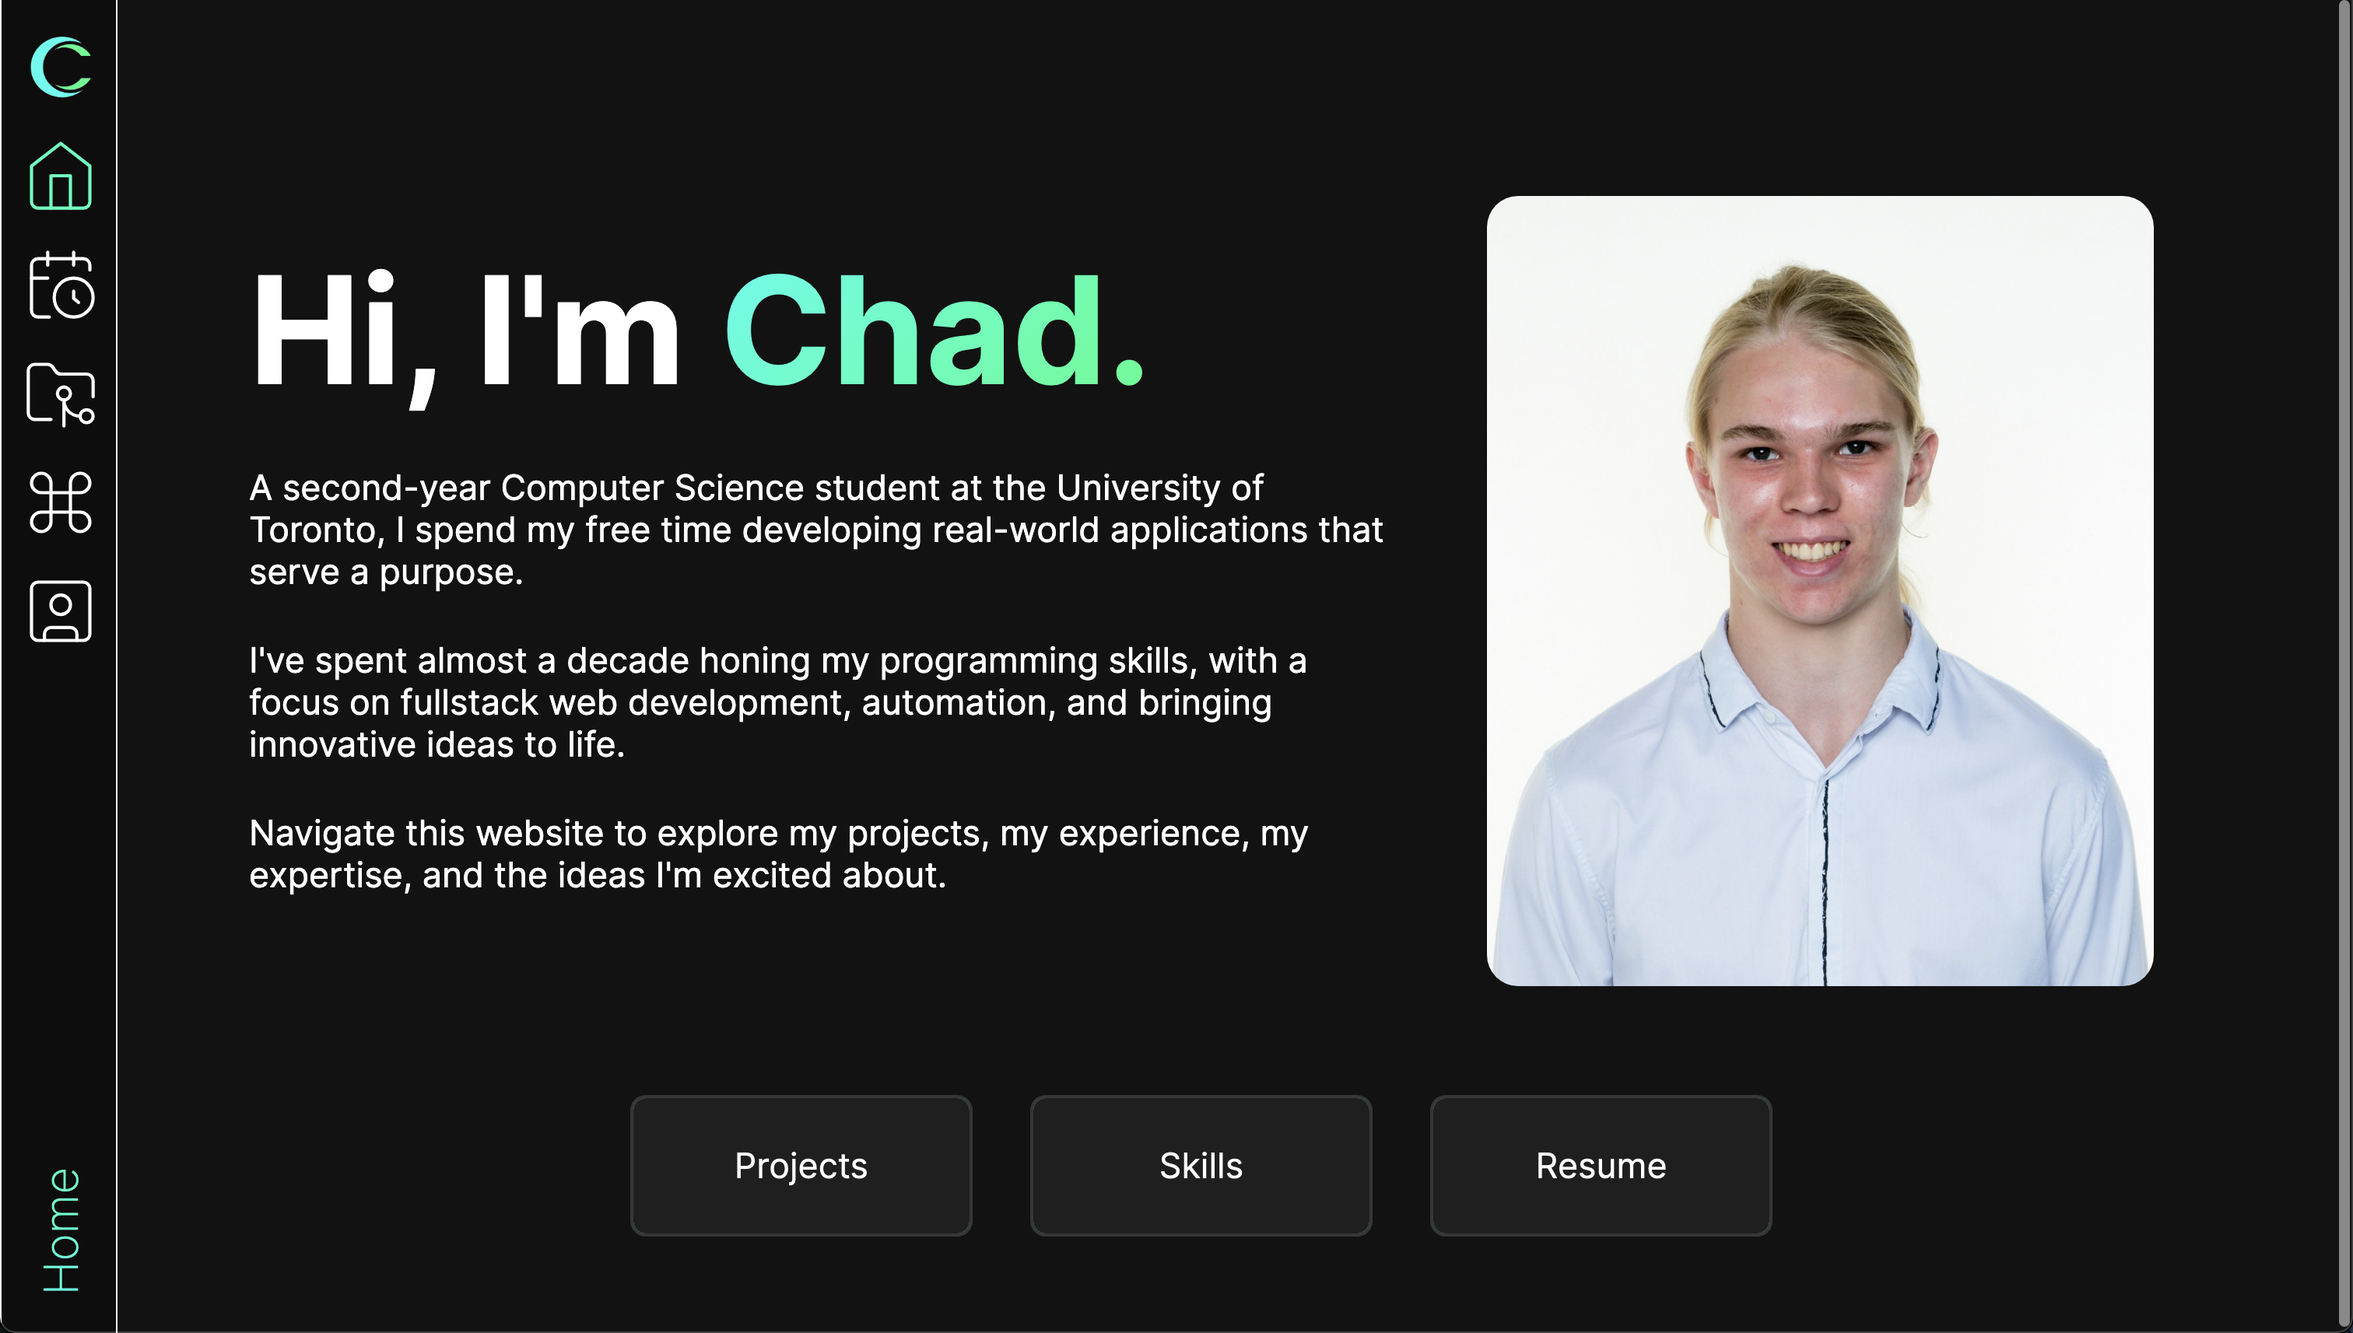
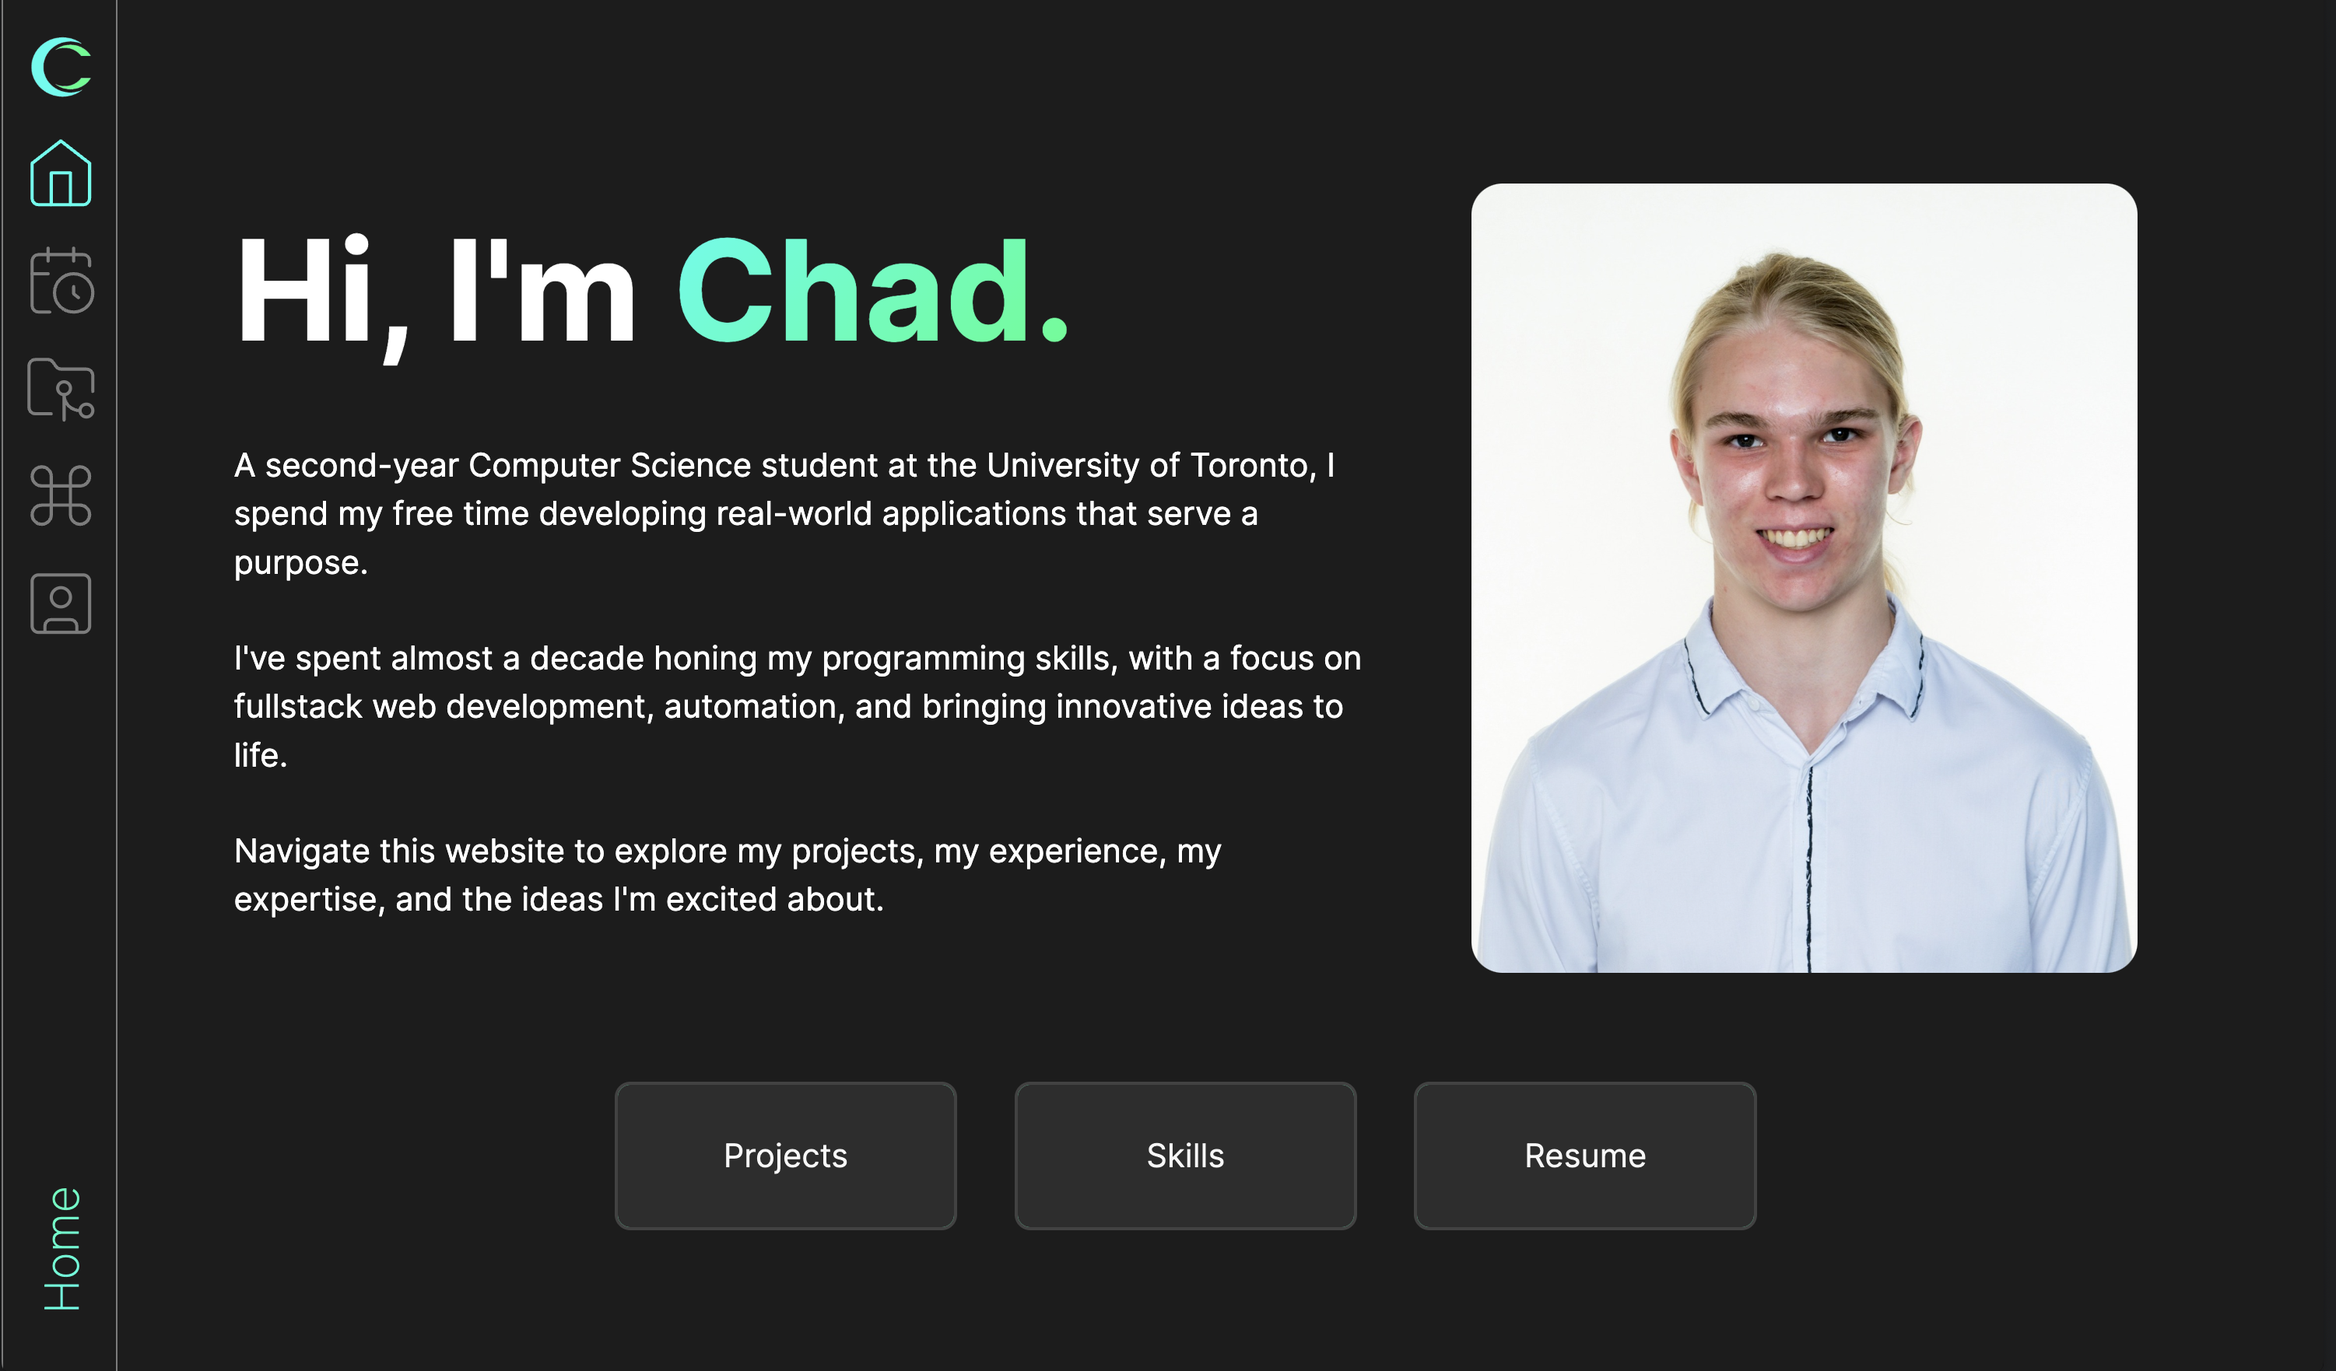
redone color scheme

diff --git a/app/project/[project]/page.tsx b/app/project/[project]/page.tsx
@@ -55,29 +55,31 @@ const ProjectPage = ({ params }: { params: { project: string } }) => {
   return (
     <div className="ml-[5vw] px-48 py-10 w-[calc(100%-5vw)] h-screen relative 2xl:px-60">
       <ChevronLeftSquare
-        className="absolute bottom-1/2 left-8 stroke-light hover:stroke-gb-3 cursor-pointer"
+        className="absolute bottom-1/2 left-8 text-dark-400 hover:text-light transition-all transition-300 cursor-pointer"
         size="8em"
         strokeWidth={0.75}
         onClick={() => navigateToProject(-1)}
       />
       <ChevronRightSquare
-        className="absolute bottom-1/2 right-8 stroke-light hover:stroke-gb-3 cursor-pointer"
+        className="absolute bottom-1/2 right-8 text-dark-400 hover:text-light transition-all transition-300 cursor-pointer"
         size="8em"
         strokeWidth={0.75}
         onClick={() => navigateToProject(1)}
       />
       <div className="flex justify-between h-[calc(0.7*(95vw-18rem))] w-full 2xl:h-[calc(0.7*(95vw-26rem))]">
         <div className="h-full flex flex-col w-[88%] justify-between">
-          <div className={clsx(!visible && "-translate-x-6 -translate-y-6 opacity-0", "rounded-2xl overflow-hidden relative aspect-video w-full h-auto border-[#fff] border transition-all duration-300")}>
-            <Image src={'/' + project.photo_url} fill alt="hi" />
+          <div className={clsx(styles.previewOuter, !visible && "-translate-x-6 -translate-y-6 opacity-0", "rounded-2xl overflow-hidden relative aspect-video w-full h-auto transition-all duration-300 bg-gradient-to-tr from-gb-5 to-gb-1")}>
+            <div className="absolute bg-dark-200 top-[2px] left-[2px] w-[calc(100%-4px)] h-[calc(100%-4px)] rounded-2xl overflow-hidden">
+              <Image src={'/' + project.photo_url} fill alt="hi" />
+            </div>
             <HelpOverlay active={help} text="Project Preview" />
           </div>
-          <div className={clsx(styles.projectDescription, !visible && "-translate-x-6 opacity-0", help && "overflow-hidden", "rounded-2xl w-full h-[22%] border border-[#fff] p-4 text-lg transition-all duration-300 relative")}>
-            {project.description.map((val, i) => <p>{val}{i != project.description.length - 1 ? <span><br /><br /></span> : ''}</p>)}
+          <div className={clsx(styles.projectDescription, !visible && "-translate-x-6 opacity-0", help && "overflow-hidden", "bg-dark-200 border-opacity-10 rounded-2xl w-full h-[22%] border border-[#fff] p-4 text-lg transition-all duration-300 relative")}>
+            {project.description.map((val, i) => <p key={i}>{val}{i != project.description.length - 1 ? <span><br /><br /></span> : ''}</p>)}
             <HelpOverlay active={help} text="Description" />
           </div>
           <div className="w-full h-[8%] flex justify-between">
-            <div className={clsx(!visible && "-translate-x-6 translate-y-6 opacity-0", "rounded-2xl mr-5 h-full border border-[#fff] flex px-5 justify-start items-center transition-all duration-300 delay-150 relative overflow-hidden")}>
+            <div className={clsx(!visible && "-translate-x-6 translate-y-6 opacity-0", "bg-dark-200 border-opacity-10 rounded-2xl mr-5 h-full border border-[#fff] flex px-5 justify-start items-center transition-all duration-300 delay-150 relative overflow-hidden")}>
               <Link href={project.link ? project.link : ''} target="_blank" className={clsx(!project.link && "pointer-events-none")}>
                 <p className="textGradient text-2xl">
                   {project.name} {project.link && '- ' + project.link}
@@ -85,7 +87,7 @@ const ProjectPage = ({ params }: { params: { project: string } }) => {
               </Link>
               <HelpOverlay active={help} text={project.link ? "Name + Link" : "Name"} />
             </div>
-            <div className={clsx(!visible && "translate-y-6 opacity-0", "rounded-2xl h-full border border-[#fff] px-5 flex-grow flex justify-center items-center transition-all duration-300 delay-75 relative overflow-hidden")}>
+            <div className={clsx(!visible && "translate-y-6 opacity-0", "bg-dark-200 border-opacity-10 rounded-2xl h-full border border-[#fff] px-5 flex-grow flex justify-center items-center transition-all duration-300 delay-75 relative overflow-hidden")}>
               <p className="text-nowrap text-2xl">
                 {formatDate(project.startDate)} - {formatDate(project.endDate)}
               </p>
@@ -94,7 +96,7 @@ const ProjectPage = ({ params }: { params: { project: string } }) => {
           </div>
         </div>
         <div className="h-full flex flex-col w-[10%] justify-between items-center">
-          <div className={clsx(!visible && "translate-x-6 -translate-y-6 opacity-0", "rounded-2xl w-full aspect-square border border-[#fff] flex justify-center items-center transition-all duration-300 delay-150 relative overflow-hidden")}>
+          <div className={clsx(!visible && "translate-x-6 -translate-y-6 opacity-0", "bg-dark-200 border-opacity-10 rounded-2xl w-full aspect-square border border-[#fff] flex justify-center items-center transition-all duration-300 delay-150 relative overflow-hidden")}>
             <Link href={project.github ? project.github : ''} target="_blank" className={clsx(!project.github && "pointer-events-none opacity-50")}>
               <Github
                 size="5em"
@@ -104,12 +106,12 @@ const ProjectPage = ({ params }: { params: { project: string } }) => {
             </Link>
             <HelpOverlay active={help} text="GitHub Link" wrap />
           </div>
-          <div className={clsx(!visible && "translate-x-6 opacity-0", help ? "overflow-hidden" : "overflow-scroll", "rounded-2xl w-2/3 h-[65%] border border-[#fff] flex flex-col items-center p-5 justify-start transition-all duration-300 delay-75 relative overflow-hidden")}>
+          <div className={clsx(!visible && "translate-x-6 opacity-0", help ? "overflow-hidden" : "overflow-scroll", "bg-dark-200 border-opacity-10 rounded-2xl w-2/3 h-[65%] border border-[#fff] flex flex-col items-center p-5 justify-start transition-all duration-300 delay-75 relative overflow-hidden")}>
             {project.skills
               .map((skillTag: SkillTag, i) => {
                 const skill = allSkillList.filter((skill) => skill.icon_url == skillTag)[0];
                 return (
-                  <div className={clsx(i != project.skills.length - 1 && "mb-4", "w-10 h-10 relative")}>
+                  <div className={clsx(i != project.skills.length - 1 && "mb-4", "w-10 h-10 relative")} key={skillTag}>
                     <Image
                       key={skill.icon_url}
                       src={`/skills_icons/color/${skill.icon_url}.svg`}
@@ -121,7 +123,7 @@ const ProjectPage = ({ params }: { params: { project: string } }) => {
               })}
             <HelpOverlay active={help} text="Skills Used" rotate />
           </div>
-          <div className={clsx(!visible && "translate-x-6 opacity-0", "rounded-2xl w-full h-[8%] border border-[#fff] flex justify-center items-center transition-all duration-300 delay-[225ms] relative overflow-hidden")}>
+          <div className={clsx(!visible && "translate-x-6 opacity-0", "bg-dark-200 border-opacity-10 rounded-2xl w-full h-[8%] border border-[#fff] flex justify-center items-center transition-all duration-300 delay-[225ms] relative overflow-hidden")}>
             <p className="text-4xl">
               {project.contributors}
             </p>
@@ -133,7 +135,7 @@ const ProjectPage = ({ params }: { params: { project: string } }) => {
             />
             <HelpOverlay active={help} text="Devs" />
           </div>
-          <div className={clsx(!visible && "translate-x-6 translate-y-6 opacity-0", "rounded-2xl w-full h-[8%] border border-[#fff] flex justify-center items-center transition-all duration-300 delay-300 relative overflow-hidden")}>
+          <div className={clsx(!visible && "translate-x-6 translate-y-6 opacity-0", "bg-dark-200 border-opacity-10 rounded-2xl w-full h-[8%] border border-[#fff] flex justify-center items-center transition-all duration-300 delay-300 relative overflow-hidden")}>
             <p className="text-2xl">
               {project.users}
             </p>
@@ -148,7 +150,7 @@ const ProjectPage = ({ params }: { params: { project: string } }) => {
         </div>
       </div>
       <HelpCircle
-        className={clsx(help && "stroke-gb-3", "absolute bottom-8 right-8 stroke-light hover:stroke-gb-3 cursor-pointer")}
+        className={clsx(help && "stroke-gb-3", "absolute bottom-8 right-8 text-dark-400 hover:text-light transition-all transition-300 cursor-pointer")}
         size="4em"
         strokeWidth={1.5}
         onClick={() => setHelp(!help)}

diff --git a/components/navbar/navbar.tsx b/components/navbar/navbar.tsx
@@ -34,7 +34,6 @@ const Navbar = () => {
             className={styles.icon}
             size="3.3rem"
             strokeWidth={1}
-            stroke={pathname == "/" ? "#00ffbb" : "#FFF"}
           />
           <p>Home</p>
         </div>
@@ -49,21 +48,19 @@ const Navbar = () => {
             className={styles.icon}
             size="3.3rem"
             strokeWidth={1}
-            stroke={pathname == "/experience" ? "#00ffbb" : "#FFF"}
           />
           <p>Experience</p>
         </div>
       </Link>
       <Link href="/projects">
         <div
-          className={`${styles.button} ${pathname == "/projects" ? styles.active : ""
+          className={`${styles.button} ${(pathname == "/projects" || pathname.split('/')[1] == 'project') ? styles.active : ""
             }`}
         >
           <FolderGit2
             className={styles.icon}
             size="3.3rem"
             strokeWidth={1}
-            stroke={pathname == "/projects" ? "#00ffbb" : "#FFF"}
           />
           <p>Projects</p>
         </div>
@@ -77,7 +74,6 @@ const Navbar = () => {
             className={styles.icon}
             size="3.3rem"
             strokeWidth={1}
-            stroke={pathname == "/skills" ? "#00ffbb" : "#FFF"}
           />
           <p>Skills</p>
         </div>
@@ -92,7 +88,6 @@ const Navbar = () => {
             className={styles.icon}
             size="3.3rem"
             strokeWidth={1}
-            stroke={pathname == "/about" ? "#00ffbb" : "#FFF"}
           />
           <p>About Me</p>
         </div>

diff --git a/components/navbar/navbar.module.scss b/components/navbar/navbar.module.scss
@@ -10,8 +10,8 @@
   position: fixed;
   top: 0;
   left: 0;
-  border-left: 1px solid $light;
-  border-right: 1px solid $light;
+  border-left: 1px solid $dark4;
+  border-right: 1px solid $dark4;
   background: $dark;
   overflow: hidden;
   transition-duration: 0.5s;
@@ -30,22 +30,22 @@
     font-weight: 200;
     cursor: pointer;
     white-space: nowrap;
+    color: $dark4;
+    transition-duration: 0.3s;
     .icon {
       margin-right: calc((5vw - 50px) / 2);
     }
     &.active {
-      background: $primary-gradient-small;
+      background: $primary-gradient-large;
       background-clip: text;
       -webkit-background-clip: text;
       -webkit-text-fill-color: transparent;
-      p {
-        text-shadow: 0 0 8px $middle-green-blue;
+      .icon {
+        color: $primary-blue;
       }
     }
     &:hover {
-      p {
-        text-shadow: 0 0 8px $middle-green-blue;
-      }
+      color: $light;
     }
   }
   .pageLabelWrapper {
@@ -69,9 +69,6 @@
       width: 160px;
       transition-duration: 1s;
     }
-  }
-  p {
-    transition-duration: 0.3s;
   }
   &:hover {
     width: 260px;

diff --git a/app/page.module.scss b/app/page.module.scss
@@ -57,7 +57,7 @@
                 font-size: 1.4rem;
                 padding: 30px 0;
                 border: 2px solid rgba(255, 255, 255, 0.1);
-                background: #1f1f1f;
+                background: $dark2;
                 border-radius: 10px;
                 cursor: pointer;
                 transition-duration: 0.3s;
@@ -75,8 +75,8 @@
                     content: "";
                     top: -2px;
                     left: -2px;
-                    width: 100%;
-                    height: 100%;
+                    width: calc(100% + 4px);
+                    height: calc(100% + 4px);
                     background: none;
                     position: absolute;
                     border: 2px solid $middle-green-blue !important;

diff --git a/components/HelpOverlay.tsx b/components/HelpOverlay.tsx
@@ -9,7 +9,7 @@ interface HelpOverlayProps {
 }
 
 const HelpOverlay: FC<HelpOverlayProps> = ({ active, text, rotate, wrap }) => {
-  return <div className={clsx(!active && "opacity-0", "absolute top-0 left-0 w-full h-full bg-dark bg-opacity-90 p-5 text-light flex justify-center items-center pointer-events-none transition-all duration-200 z-10")}>
+  return <div className={clsx(!active && "opacity-0", "absolute top-0 left-0 w-full h-full bg-dark-100 bg-opacity-90 p-5 text-light flex justify-center items-center pointer-events-none transition-all duration-200 z-10")}>
     <p className={clsx(rotate && "rotate-90", !wrap && "text-nowrap", "text-2xl text-center font-medium")}>{text}</p>
   </div>
 }

diff --git a/app/projects/projects.module.scss b/app/projects/projects.module.scss
@@ -8,6 +8,7 @@
     .filtersLabel {
         margin-bottom: 20px;
         font-weight: 200;
+        text-align: center;
     }
 
     .filtersWrapper {
@@ -18,7 +19,8 @@
         overflow-x: scroll;
         -ms-overflow-style: none;
         scrollbar-width: none;
-        border: 1px solid $light;
+        border: 1px solid rgba(255,255,255,0.1);
+        background: $dark2;
         border-radius: 10px;
 
         &::-webkit-scrollbar {
@@ -42,9 +44,10 @@
 
     .projectPreviews {
       display: grid;
-      gap: 4%;
       width: 100%;
       grid-template-columns: 48% 48%;
+      row-gap: 20px;
+      column-gap: 4%;
 
       .projectPreview {
           width: 100%;

diff --git a/tailwind.config.ts b/tailwind.config.ts
@@ -11,8 +11,10 @@ module.exports = {
   theme: {
     extend: {},
     colors: {
-      light: "#fff",
-      dark: "#0d0d0d",
+      light: "#f8f8f8",
+      "dark-100": "#1c1c1c",
+      "dark-200": "#2d2d2d",
+      "dark-400": "#7c7c7c",
       "gb-1": "#0f8",
       "gb-2": "#0fa",
       "gb-3": "#0fb",

diff --git a/app/skills/skills.module.scss b/app/skills/skills.module.scss
@@ -61,7 +61,7 @@
             padding: 0.5rem 1rem;
             position: relative;
             box-sizing: border-box;
-            background: #1f1f1f;
+            background: $dark2;
           }
 
           cursor: pointer;

diff --git a/app/project/[project]/project.module.scss b/app/project/[project]/project.module.scss
@@ -1,5 +1,10 @@
 @import "app/variables.module.scss";
 
+.previewInner {
+
+            background: linear-gradient(45deg, #0f8 0%, #0fe 100%);
+}
+
 .projectDescription {
   position: relative;
   overflow-y: scroll;

diff --git a/app/variables.module.scss b/app/variables.module.scss
@@ -1,5 +1,7 @@
-$light: #FFF;
-$dark: #0d0d0d;
+$light: #F8F8F8;
+$dark: #1c1c1c;
+$dark2: #2d2d2d;
+$dark4: #7c7c7c;
 $primary-green: #0f8;
 $between-green: #0fa;
 $middle-green-blue: #0fb;
